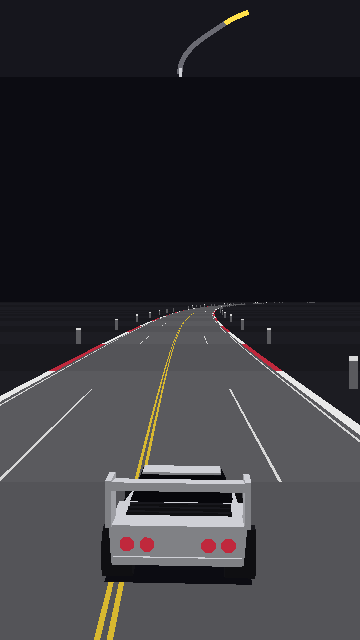
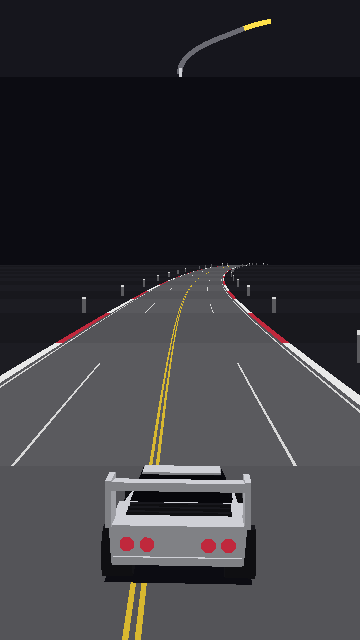
Remove the demo hills track (the default loop has hills); refresh two baselines

diff --git a/src/app/main.ts b/src/app/main.ts
@@ -29,7 +29,7 @@ import { WorldSprites } from '../render/worldSprites';
 import { DT } from '../sim/constants';
 import { createRace } from '../sim/race';
 import { buildTrack, makeStraightTrack } from '../sim/track';
-import { curveClasses, loadTestHills, loadTestTwisty } from '../data/tracks';
+import { curveClasses, loadTestTwisty } from '../data/tracks';
 import type { InputFrame, Track } from '../sim/types';
 import { FrameStats } from '../ui/frameStats';
 import { FrameHud } from '../ui/hud';
@@ -104,7 +104,7 @@ const track = curve
       ? makeStraightTrack(STRAIGHT_TRACK_SEGMENTS)
       : hillScenario
         ? buildTrack({ sections: hillScenario.sections })
-        : buildTrack((params.track === 'hills' ? loadTestHills() : loadTestTwisty()).def);
+        : buildTrack(loadTestTwisty().def);
 const view = stress ? { ...cameraConfig, drawDistance: stress.drawDistance } : cameraConfig;
 let proj = createProjection(view, roadConfig);
 let road = new RoadMesh(view, roadConfig, paletteConfig);

diff --git a/src/data/tracks/index.ts b/src/data/tracks/index.ts
@@ -1,6 +1,5 @@
 import type { TrackDef, TrackSection } from '../../sim/types';
 import curves from './curves.json';
-import hills from './test-hills.json';
 import twisty from './test-twisty.json';
 
 export type CurveClass = 'easy' | 'medium' | 'hard';
@@ -77,10 +76,4 @@ export function resolveSections(
 export function loadTestTwisty(): { name: string; sections: ClassedSection[]; def: TrackDef } {
   const sections = parseSections(twisty.sections);
   return { name: twisty.name, sections, def: resolveSections(sections, curveClasses) };
-}
-
-/** R30 small loop with curves and hills (sum of hills 0), selected with ?track=hills. */
-export function loadTestHills(): { name: string; sections: ClassedSection[]; def: TrackDef } {
-  const sections = parseSections(hills.sections);
-  return { name: hills.name, sections, def: resolveSections(sections, curveClasses) };
 }

diff --git a/src/app/debug.ts b/src/app/debug.ts
@@ -8,7 +8,7 @@ export interface GameParams {
   ticks: number | null;
   hud: boolean;
   map: boolean; // ribbonMap off unless ?map=1
-  track: string; // ?track=hills picks test-hills (R30); anything else the default loop
+  track: string; // reserved: track selector (only the default loop exists)
 }
 
 export interface RendererStats {
